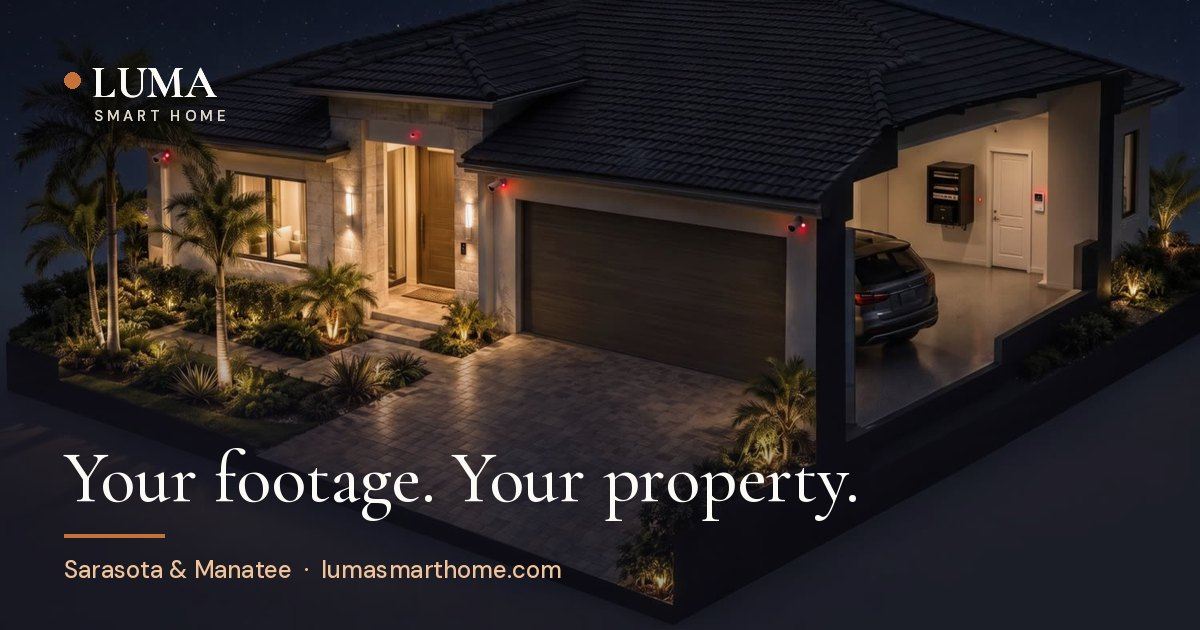
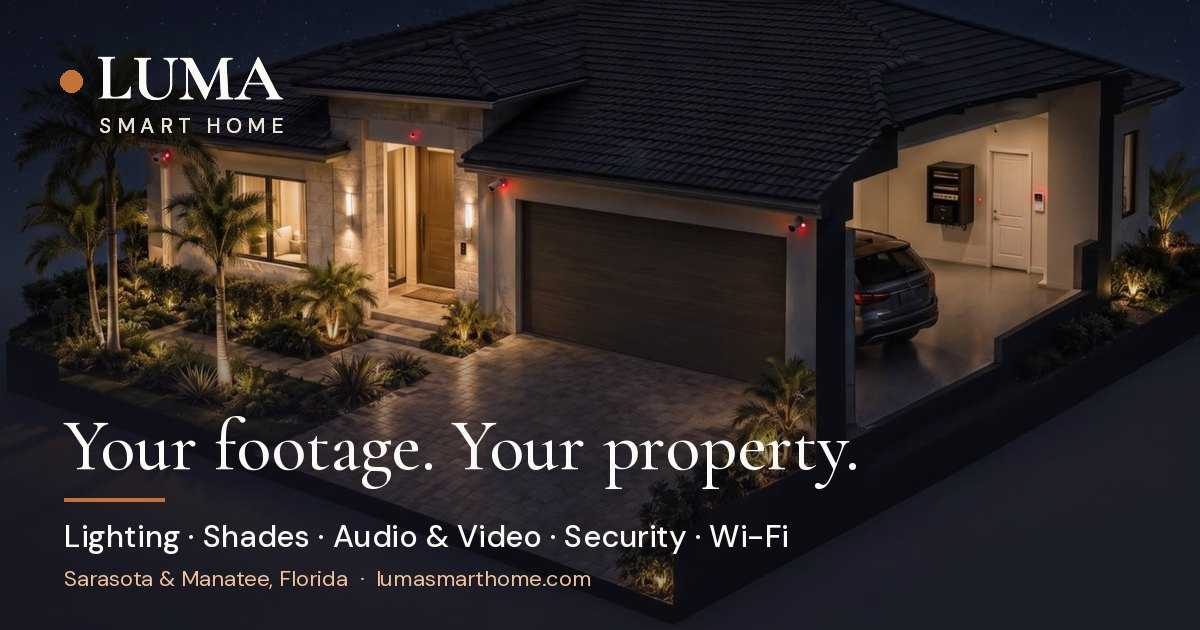
Link previews: a larger LUMA mark and what we do, set large under the headline

diff --git a/scripts/make-og.py b/scripts/make-og.py
@@ -34,7 +34,7 @@ CARDS = {
     "support": ("assets/video/luma-care-poster.jpg", "Keep the house effortless, long after install.", 0.5),
     "service-areas": ("assets/photos/places/sarasota.jpg", "Sarasota & Manatee Counties.", 0.5),
 }
-LINE = "Lighting · Shades · Audio & Video · Security · Networking"
+LINE = "Lighting · Shades · Audio & Video · Security · Wi-Fi"
 PLACE = "Sarasota & Manatee Counties, Florida"
 
 
@@ -74,10 +74,15 @@ def card(photo, headline, fx):
     lum = img.crop((0, H // 2, int(W * 0.75), H)).convert("L").resize((1, 1)).getpixel((0, 0)) / 255
     k = 1.0 + max(0.0, lum - 0.28) * 1.6
     # the reference's 132deg scrim: darker at the lower left where the type sits
-    size = 72 if len(headline) < 34 else 60
-    hf = font("Cormorant.ttf", size, [500])
-    lines = wrap(ImageDraw.Draw(img), headline, hf, 820)
-    y0 = H - 118 - len(lines) * size * 1.08
+    # the largest size that keeps the headline on one line, else two lines at 60
+    for size in (72, 66, 60):
+        hf = font("Cormorant.ttf", size, [500])
+        lines = wrap(ImageDraw.Draw(img), headline, hf, 1060)
+        if len(lines) == 1:
+            break
+    if len(lines) > 1:
+        lines = wrap(ImageDraw.Draw(img), headline, hf, 900)
+    y0 = H - 150 - len(lines) * size * 1.08
     start = max(0.0, (y0 - 130) / H)
     shade = Image.new("L", (W, H))
     px = shade.load()
@@ -85,17 +90,17 @@ def card(photo, headline, fx):
         for x in range(W):
             b = min(1.0, max(0.0, (y / H - start) / 0.22))        # full by the headline's first line
             l = max(0.0, 1 - x / (W * 0.75)) ** 1.6              # and toward the left edge
-            top = max(0.0, 1 - y / (H * 0.3)) * max(0.0, 1 - x / (W * 0.4))  # behind the mark
+            top = max(0.0, 1 - y / (H * 0.36)) * max(0.0, 1 - x / (W * 0.45))  # behind the mark
             t = min(1.0, (0.85 * b * (0.45 + 0.55 * l)) * k + 0.55 * top)
             px[x, y] = int(10 + 200 * t)
     img = Image.composite(Image.new("RGB", (W, H), DARK), img, shade)
     d = ImageDraw.Draw(img)
     # mark: dot + LUMA + SMART HOME, as in the site header
-    luma = font("Cormorant.ttf", 44, [700])
-    small = font("DMSans.ttf", 15, [14, 500])
-    d.ellipse((64, 72, 80, 88), fill=ACCENT)
-    d.text((92, 56), "LUMA", font=luma, fill=CREAM)
-    d.text((94, 106), "S M A R T   H O M E", font=small, fill=(220, 214, 204))
+    luma = font("Cormorant.ttf", 66, [700])
+    small = font("DMSans.ttf", 21, [14, 500])
+    d.ellipse((60, 70, 82, 92), fill=ACCENT)
+    d.text((96, 38), "LUMA", font=luma, fill=CREAM)
+    d.text((99, 112), "S M A R T   H O M E", font=small, fill=(232, 226, 216))
     # headline
     # a soft shadow under the headline, for photos with light behind it
     sh = Image.new("L", (W, H), 0)
@@ -106,15 +111,16 @@ def card(photo, headline, fx):
         y += size * 1.08
     img = Image.composite(Image.new("RGB", (W, H), DARK), img, sh.filter(ImageFilter.GaussianBlur(9)))
     d = ImageDraw.Draw(img)
-    d.ellipse((64, 72, 80, 88), fill=ACCENT)
-    d.text((92, 56), "LUMA", font=luma, fill=CREAM)
-    d.text((94, 106), "S M A R T   H O M E", font=small, fill=(220, 214, 204))
+    d.ellipse((60, 70, 82, 92), fill=ACCENT)
+    d.text((96, 38), "LUMA", font=luma, fill=CREAM)
+    d.text((99, 112), "S M A R T   H O M E", font=small, fill=(232, 226, 216))
     y = y0
     for ln in lines:
         d.text((64, y), ln, font=hf, fill=CREAM)
         y += size * 1.08
-    d.rectangle((64, H - 96, 164, H - 93), fill=ACCENT)
-    d.text((64, H - 76), "Sarasota & Manatee  ·  lumasmarthome.com", font=font("DMSans.ttf", 24, [14, 500]), fill=PEACH)
+    d.rectangle((64, H - 132, 164, H - 129), fill=ACCENT)
+    d.text((64, H - 114), LINE, font=font("DMSans.ttf", 31, [14, 500]), fill=CREAM)
+    d.text((64, H - 66), "Sarasota & Manatee, Florida  ·  lumasmarthome.com", font=font("DMSans.ttf", 22, [14, 400]), fill=PEACH)
     return img
 
 
